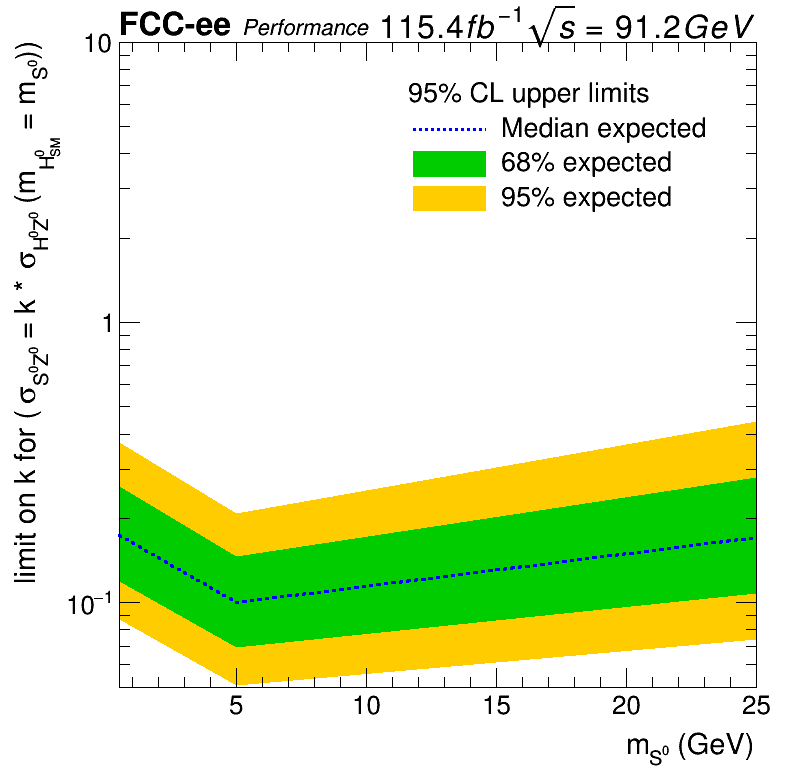
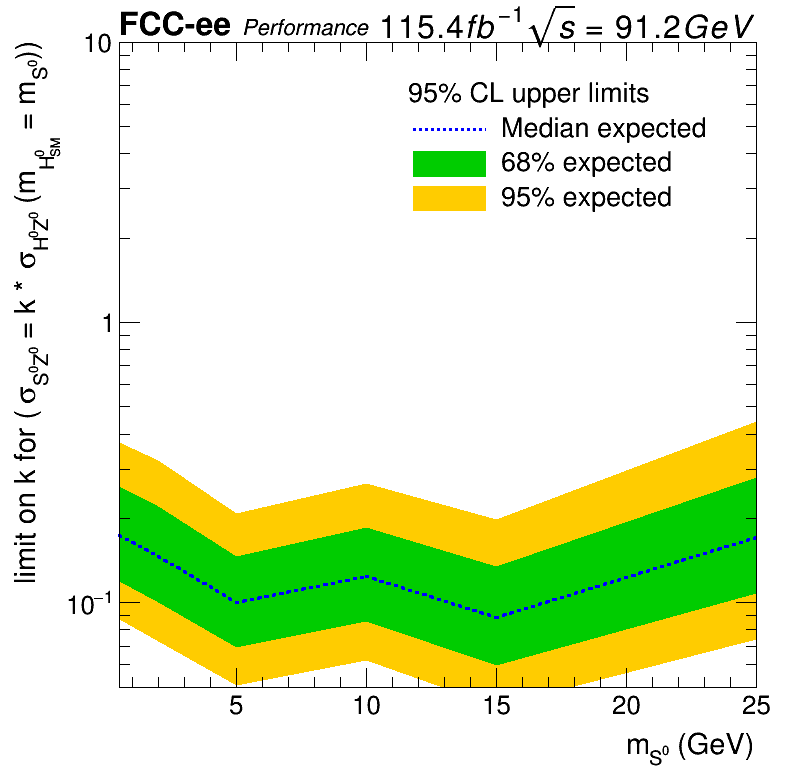
updating limit plot

diff --git a/combine/make_limit_plot.py b/combine/make_limit_plot.py
@@ -202,8 +202,13 @@ def makePlotUpperLimit():
 
 if __name__ == "__main__":
 
-    masses = [0.5, 5, 25]
-    combine_files = ["higgsCombineTest.AsymptoticLimits.mH0.5.root", "higgsCombineTest.AsymptoticLimits.mH5.root", "higgsCombineTest.AsymptoticLimits.mH25.root"]
+    masses = [0.5, 2, 5, 10, 15, 25]
+    combine_files = ["higgsCombineTest.AsymptoticLimits.mH0.5.root", 
+                     "higgsCombineTest.AsymptoticLimits.mH2.root",
+                     "higgsCombineTest.AsymptoticLimits.mH5.root",
+                     "higgsCombineTest.AsymptoticLimits.mH10.root",
+                     "higgsCombineTest.AsymptoticLimits.mH15.root",
+                     "higgsCombineTest.AsymptoticLimits.mH25.root"]
 
     
     cfg_xtitle = "m_{S^{0}} (GeV)"
